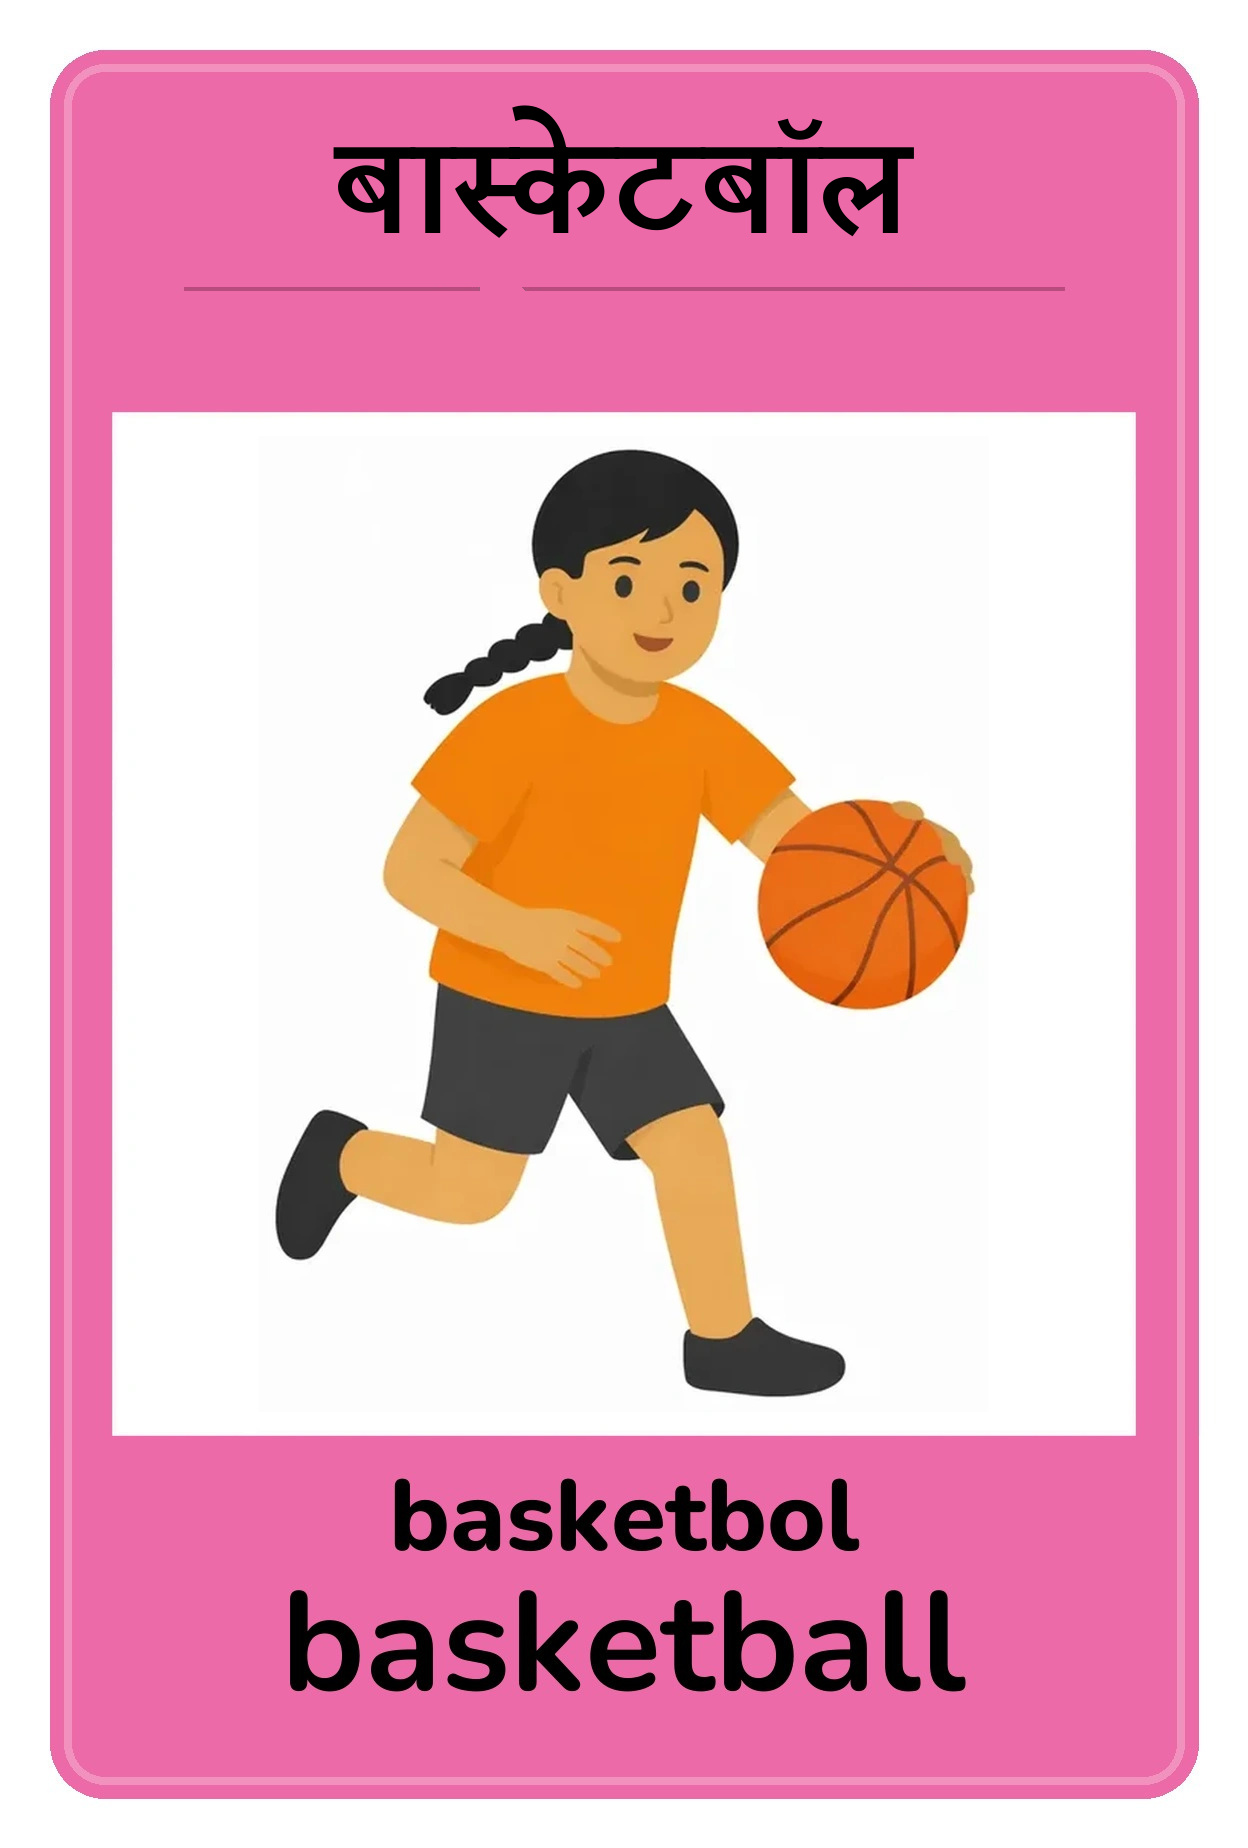
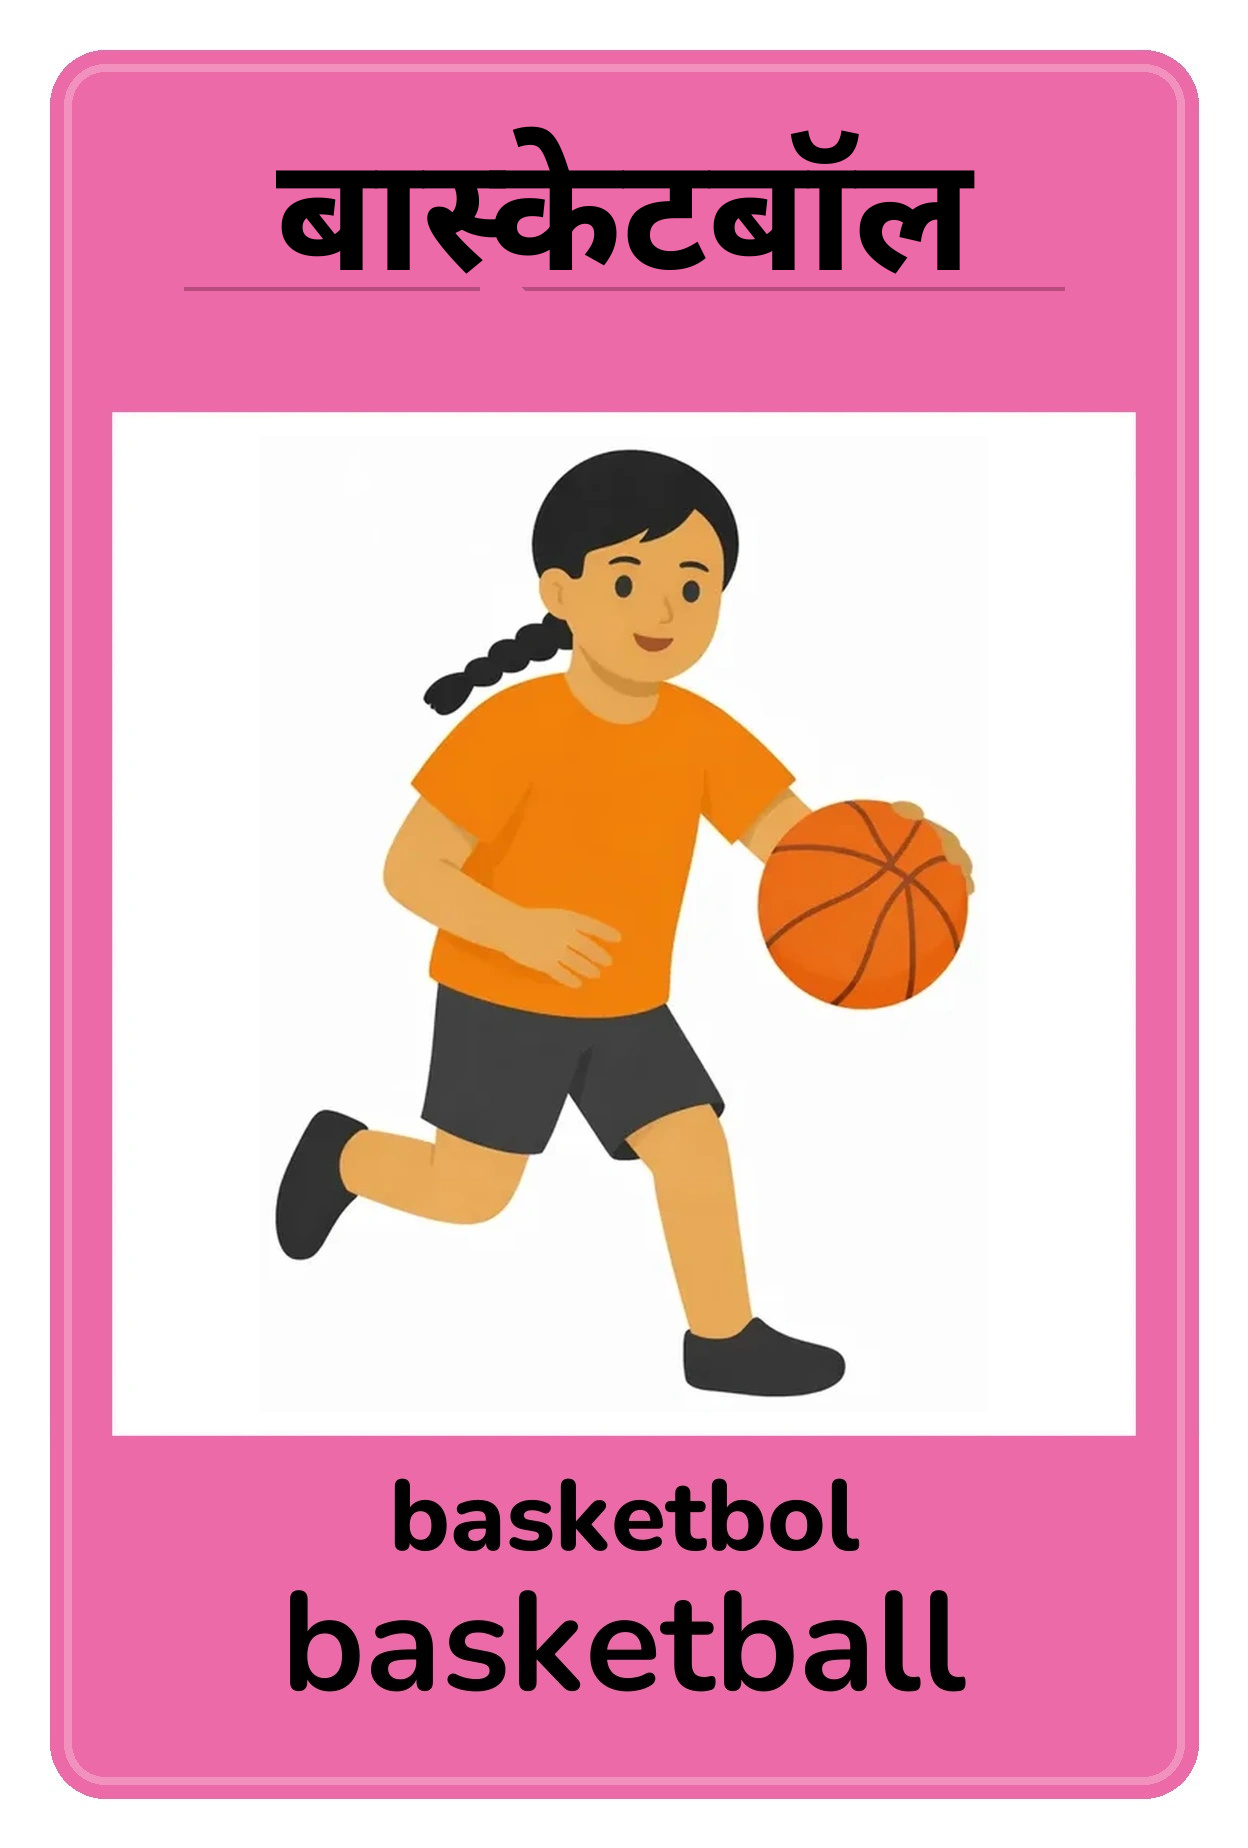
Match the Hindi header weight on basketball and dancing to the other cards.
बास्केटबॉल and नृत्य were a lighter face than the Noto Bold headers on the rest of the Hindi cards. Repainted only that header band. Service worker is v88 so the cached images refresh.

Changed region(s): [[0.2188, 0.0308, 0.7812, 0.1542]]

diff --git a/sw.js b/sw.js
@@ -10,7 +10,7 @@
    Bump CACHE_VERSION on every deploy. Old caches are deleted on
    activate, so a stale stylesheet can never outlive a release.       */
 
-const CACHE_VERSION = 'v87';
+const CACHE_VERSION = 'v88';
 const SHELL_CACHE   = `ptw-shell-${CACHE_VERSION}`;
 const ASSET_CACHE   = `ptw-assets-${CACHE_VERSION}`;
 
